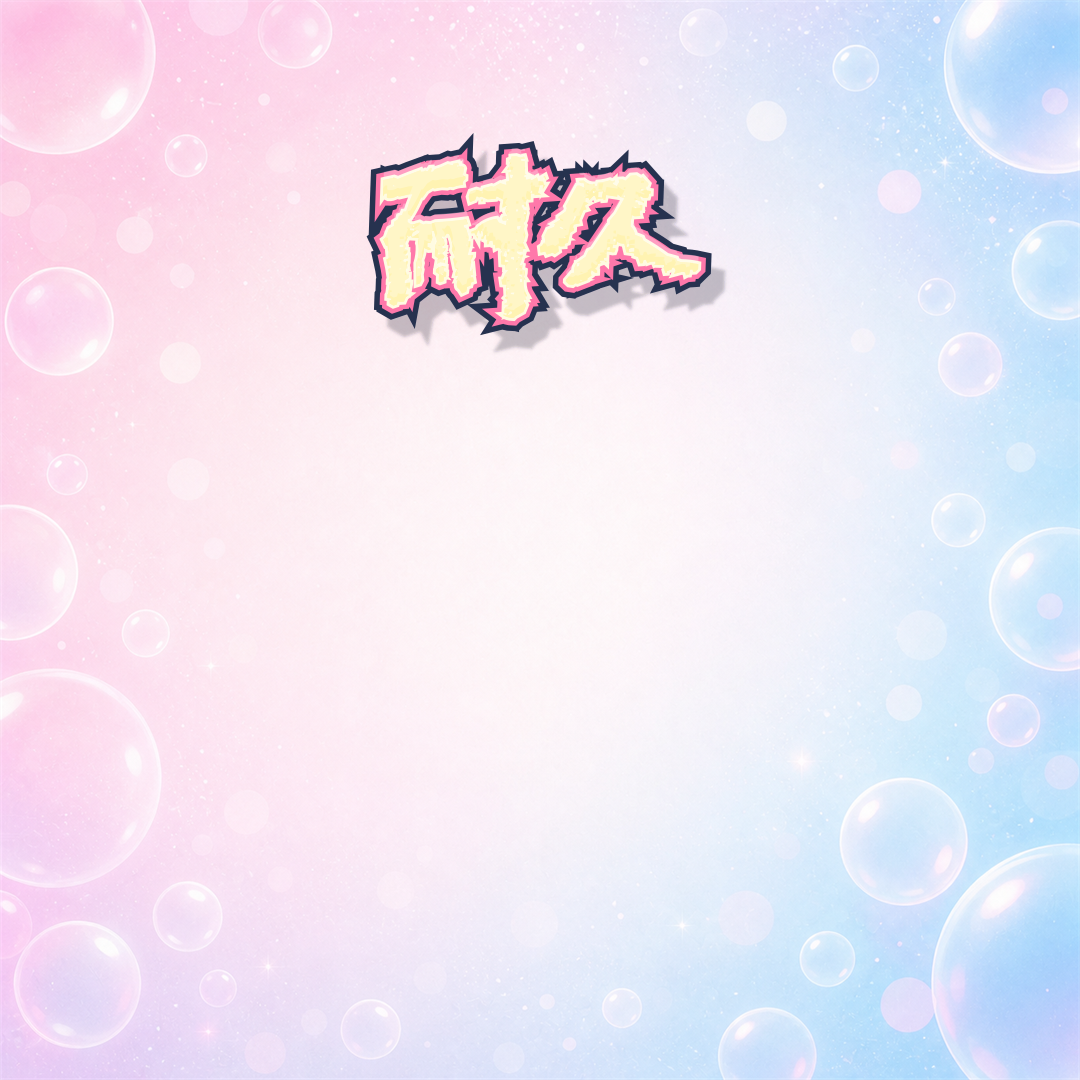
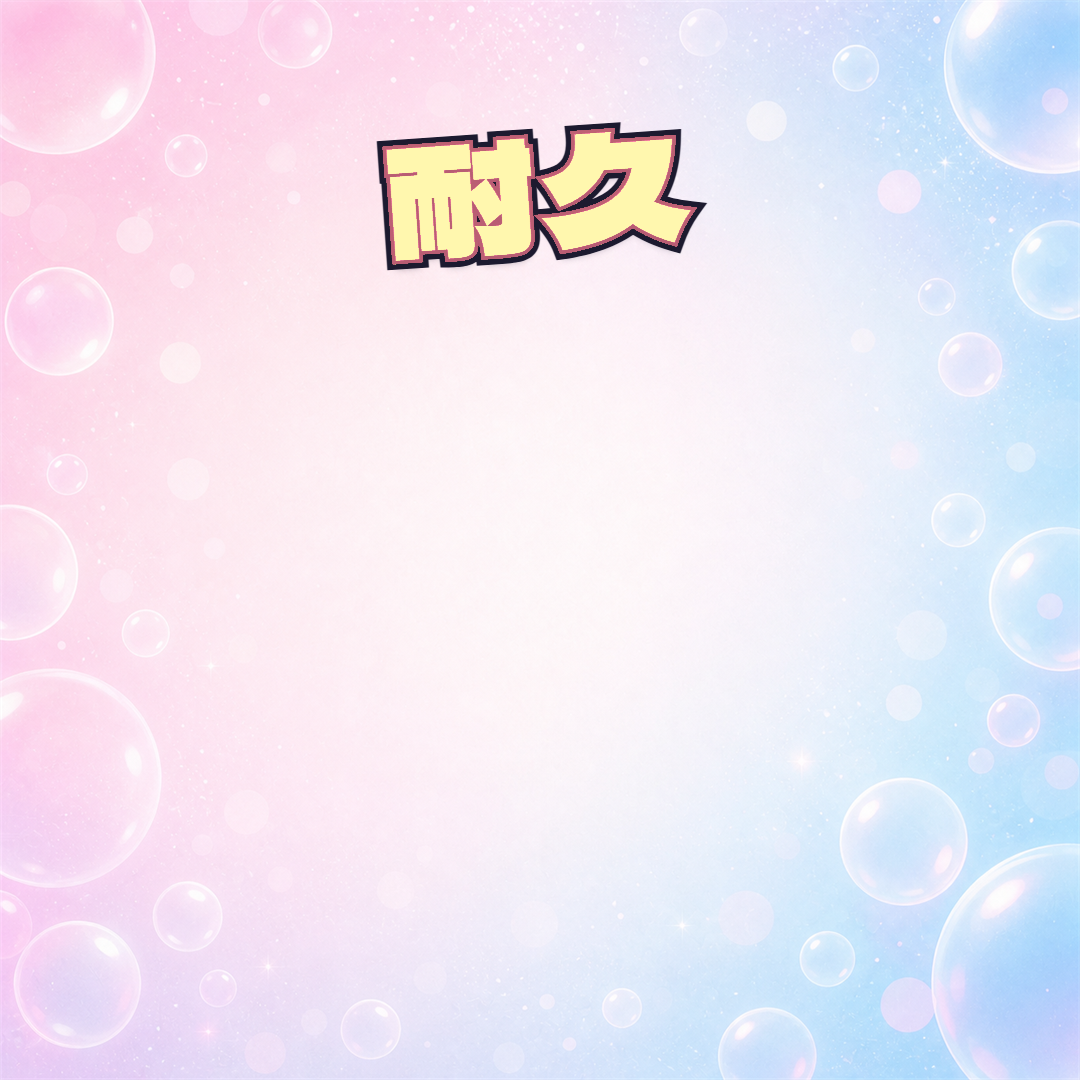
Match endurance titles to glyph reference

Changed region(s): [[0.3361, 0.0917, 0.6722, 0.3361]]

diff --git a/task.md b/task.md
@@ -346,8 +346,8 @@
          - `docs/mockups/thumbnail-editor-iriam-square-title-images/endurance/endurance-title-dela-gothic-one-yellow-on-pop-bubble-preview.png`
          - `docs/mockups/thumbnail-editor-iriam-square-title-images/endurance/endurance-title-dela-gothic-one-purple-on-pop-bubble-preview.png`
          - `docs/mockups/thumbnail-editor-iriam-square-title-images/endurance/endurance-title-dela-gothic-one-mint-on-pop-bubble-preview.png`
-       - visual result: 5色とも `pop_bubble` 1:1 背景上で読める。`Dela Gothic One` 400 に stroke / shadow / light outline と軽い rotation を加え、title image 内の星、ハート、リボン、小丸、カーブ線などは追加していない。
-       - verification result: 5 title images are 760 x 320 PNG RGBA with transparent pixels. 5 previews are 1080 x 1080 PNG RGBA. `node scripts/thumbnail-iriam-karaoke-square-preset-contract.mjs` passed.
+       - visual result: 5色とも `pop_bubble` 1:1 背景上で読める。既存 glyph-verified `Dela Gothic One` 400 title を基準に色展開し、title image 内の星、ハート、リボン、小丸、カーブ線などは追加していない。
+       - verification result: 5 title images are 760 x 320 PNG RGBA with transparent pixels. 5 previews are 1080 x 1080 PNG RGBA. Yellow preview was matched back to the existing glyph-verified reference to avoid the earlier `sharp` SVG glyph rendering drift. `node scripts/thumbnail-iriam-karaoke-square-preset-contract.mjs` passed.
        - remaining risk: preview は既存 `karaoke` `pop_bubble` 背景での確認用。`耐久` 専用 1:1 背景、preset body、settings modal option にはまだ接続していない。
        - next genre candidate: `闇ガチャ`。`New Tegomin` 400 で dark_cute 背景上の readable stroke を先に確認する。
    - decoration:
